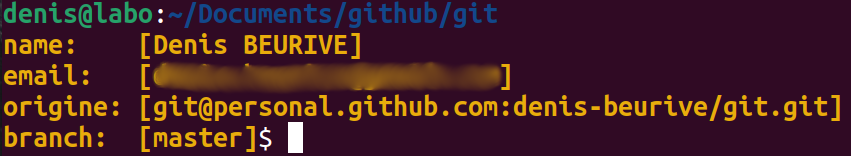
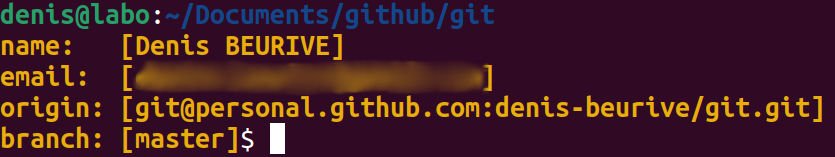
Better script

diff --git a/README.md b/README.md
@@ -861,7 +861,7 @@ Show the SHA of the commit that is being the source of a conflict
 
 # GIT general tips
 
-## Add branch name to Bash prompt
+## Add repository configuration to Bash prompt
 
 Add this in your file `.bashrc`:
 
@@ -871,12 +871,12 @@ get_git_id() {
     local name
     local email
     local branch
-    local origine
+    local origin
     name=$(git config user.name)
     email=$(git config user.email)
     branch=$(git branch | sed -e '/^[^*]/d' -e 's/* \(.*\)/\1/')
-    origine=$(git config remote.origin.url)
-    printf "\nname:    [%s]\nemail:   [%s]\norigine: [%s]\nbranch:  [%s]" "${name}" "${email}" "${origine}" "${branch}"
+    origin=$(git config remote.origin.url)
+    printf "\nname:   [%s]\nemail:  [%s]\norigin: [%s]\nbranch: [%s]" "${name}" "${email}" "${origin}" "${branch}"
   else
     printf ""
   fi;
@@ -1036,14 +1036,38 @@ Put this function into your `~/.bashrc`.
 
 ```shell
 set_git_account() {
-   git config user.email "your@address.email"
-   git config user.name "Your Name"
-   git config remote.upstream.url "git@domain.com:group/repos.git"
-   git config remote.upstream.fetch "+refs/heads/*:refs/remotes/upstream/*"
-   git config --get-regexp remote.upstream.*
+   if [ -d .git ]; then
+      local upstream_cmd1="git config remote.upstream.url \"git@domain.com:group1/repos.git\""
+      local upstream_cmd2="git config remote.upstream.fetch \"+refs/heads/*:refs/remotes/upstream/*\""
+
+      case "${1}" in
+         account1)
+              printf "Set configuration for GIT account [%s]\n" "${1}"
+              git config user.email "account1@domain.com"
+              git config user.name "Name"
+              printf "Done\n\n"
+              ;;
+         account2)
+              printf "Set configuration for GIT account [%s]\n" "${1}"
+              git config user.email "account2@domain.com"
+              git config user.name "Name"
+              printf "Done\n\n"
+              ;;
+         *)
+              printf "Unexpected account [%s]\n" $1
+              return
+              ;;
+      esac
+
+      printf "Upstream configuration:\n"
+      git config --get-regexp remote.upstream.*
+      printf "You may need to set upstream:\n  %s\n  %s\n" "${upstream_cmd1}" "${upstream_cmd2}"
+   else
+      printf "WARNING: your are not in a repository!\n"
+   fi
 }
+
 ```
 
-Then you just need to execute `set_git_account` from the command line to set the required configuration.
-
+Then you just need to execute `set_git_account <account>` from the command line to set the required configuration.
 
